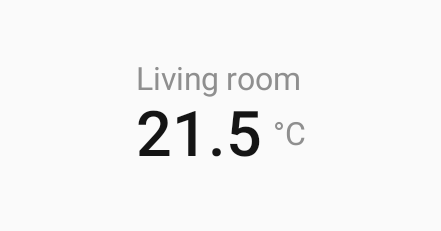
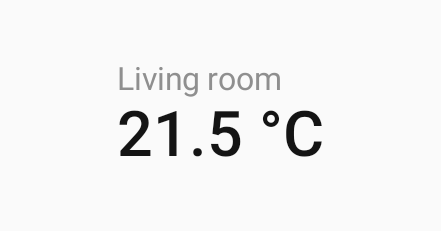
fix(ui-builder-catalog): correct live metric and release metadata

Changed region(s): [[0.2653, 0.4545, 0.737, 0.697], [0.2653, 0.2727, 0.678, 0.4242]]

diff --git a/rc-components/src/main/kotlin/ee/schimke/ha/rc/components/RemoteHaMetric.kt b/rc-components/src/main/kotlin/ee/schimke/ha/rc/components/RemoteHaMetric.kt
@@ -29,6 +29,15 @@ fun RemoteHaMetric(
   modifier: RemoteModifier = RemoteModifier,
 ) {
   val theme = haTheme()
+  val boundEntityId = entityId?.takeIf { it.isNotBlank() }
+  // The host pushes formatState(entity) into <entityId>.state, including its unit. Seed that same
+  // shape and do not draw a second unit next to a bound value after the first live update.
+  val initialValue =
+    if (boundEntityId != null && unit.isNotBlank() && value.trim().toDoubleOrNull() != null) {
+      "$value $unit"
+    } else {
+      value
+    }
   RemoteColumn(modifier = modifier.padding(horizontal = 8.rdp, vertical = 6.rdp)) {
     RemoteText(
       text = entityName(entityId, label),
@@ -40,7 +49,7 @@ fun RemoteHaMetric(
     )
     RemoteRow {
       RemoteText(
-        text = LiveValues.state(entityId, value),
+        text = LiveValues.state(boundEntityId, initialValue),
         color = valueColor ?: theme.primaryText,
         fontSize = 24.rsp,
         fontWeight = FontWeight.Medium,
@@ -48,7 +57,7 @@ fun RemoteHaMetric(
         maxLines = 1,
         overflow = TextOverflow.Ellipsis,
       )
-      if (unit.isNotBlank()) {
+      if (boundEntityId == null && unit.isNotBlank()) {
         RemoteText(
           text = unit.rs,
           modifier = RemoteModifier.padding(start = 4.rdp, top = 7.rdp),
